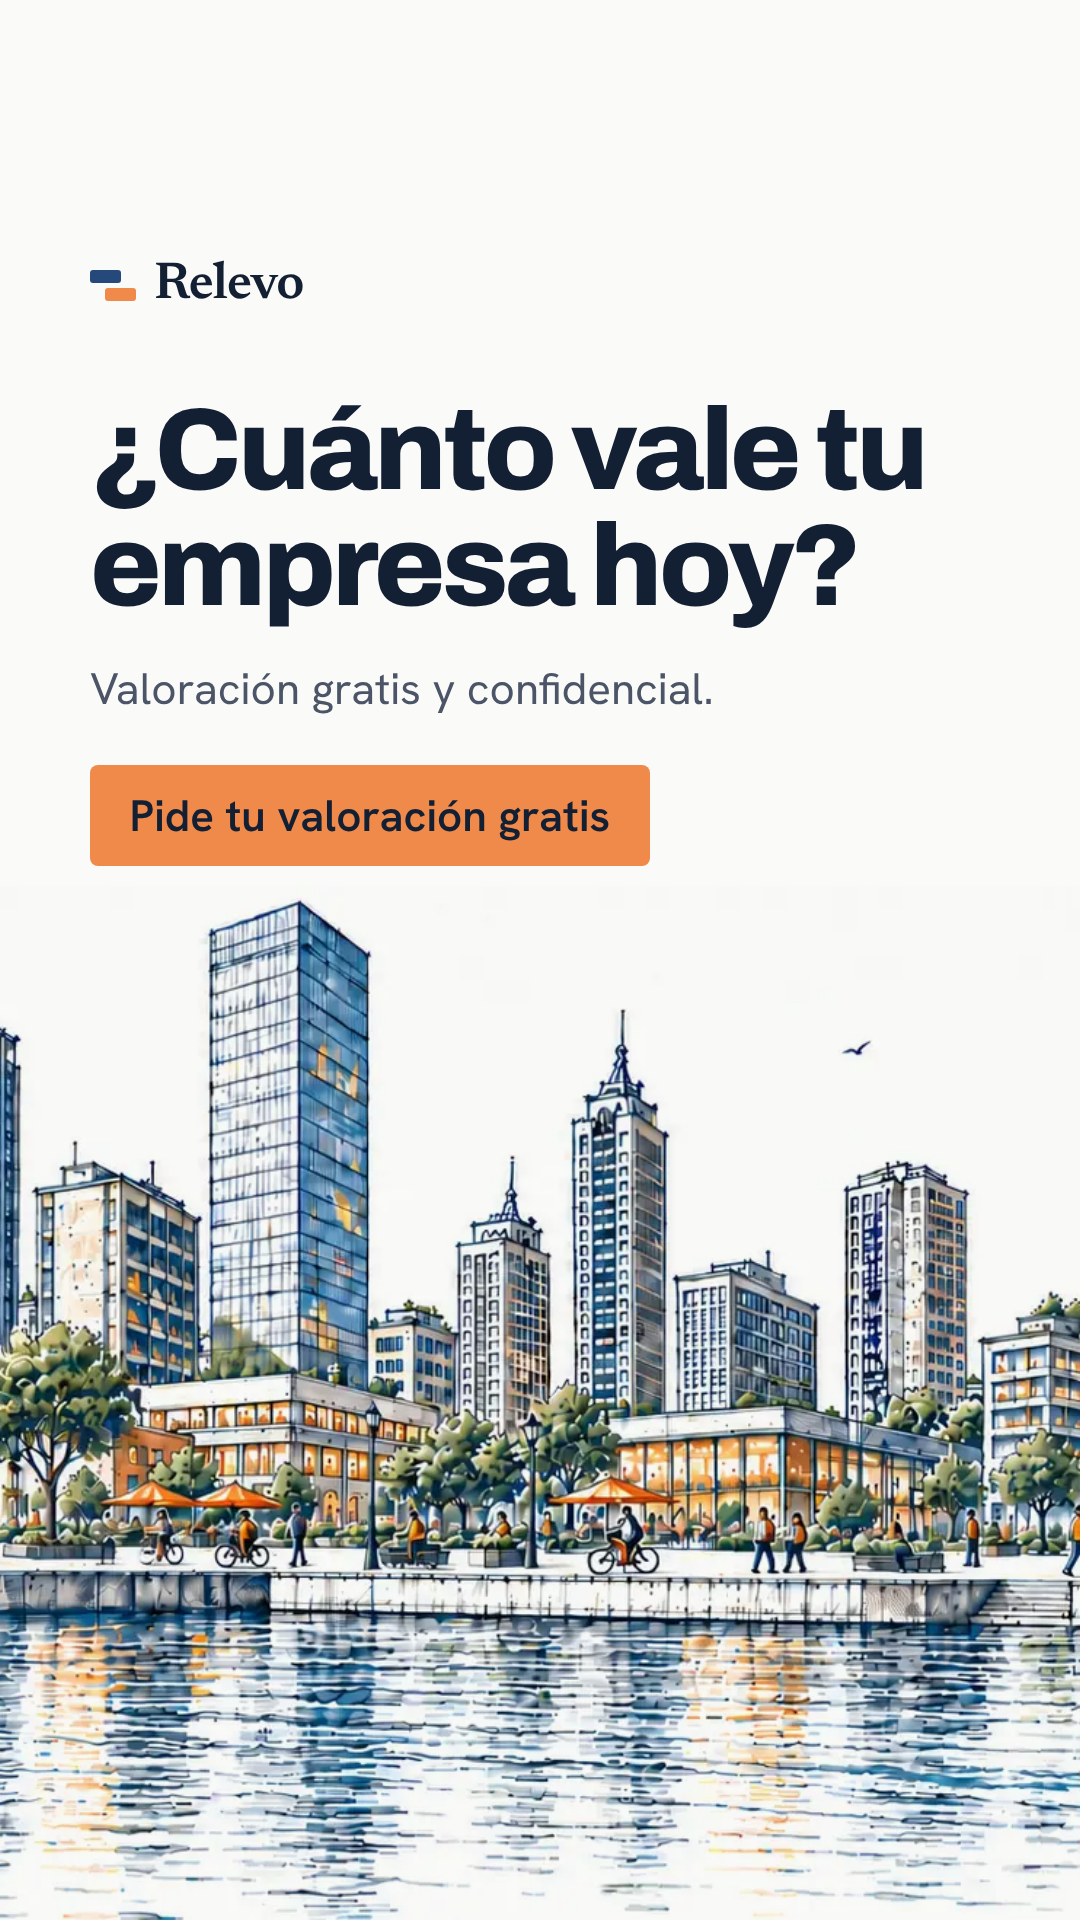
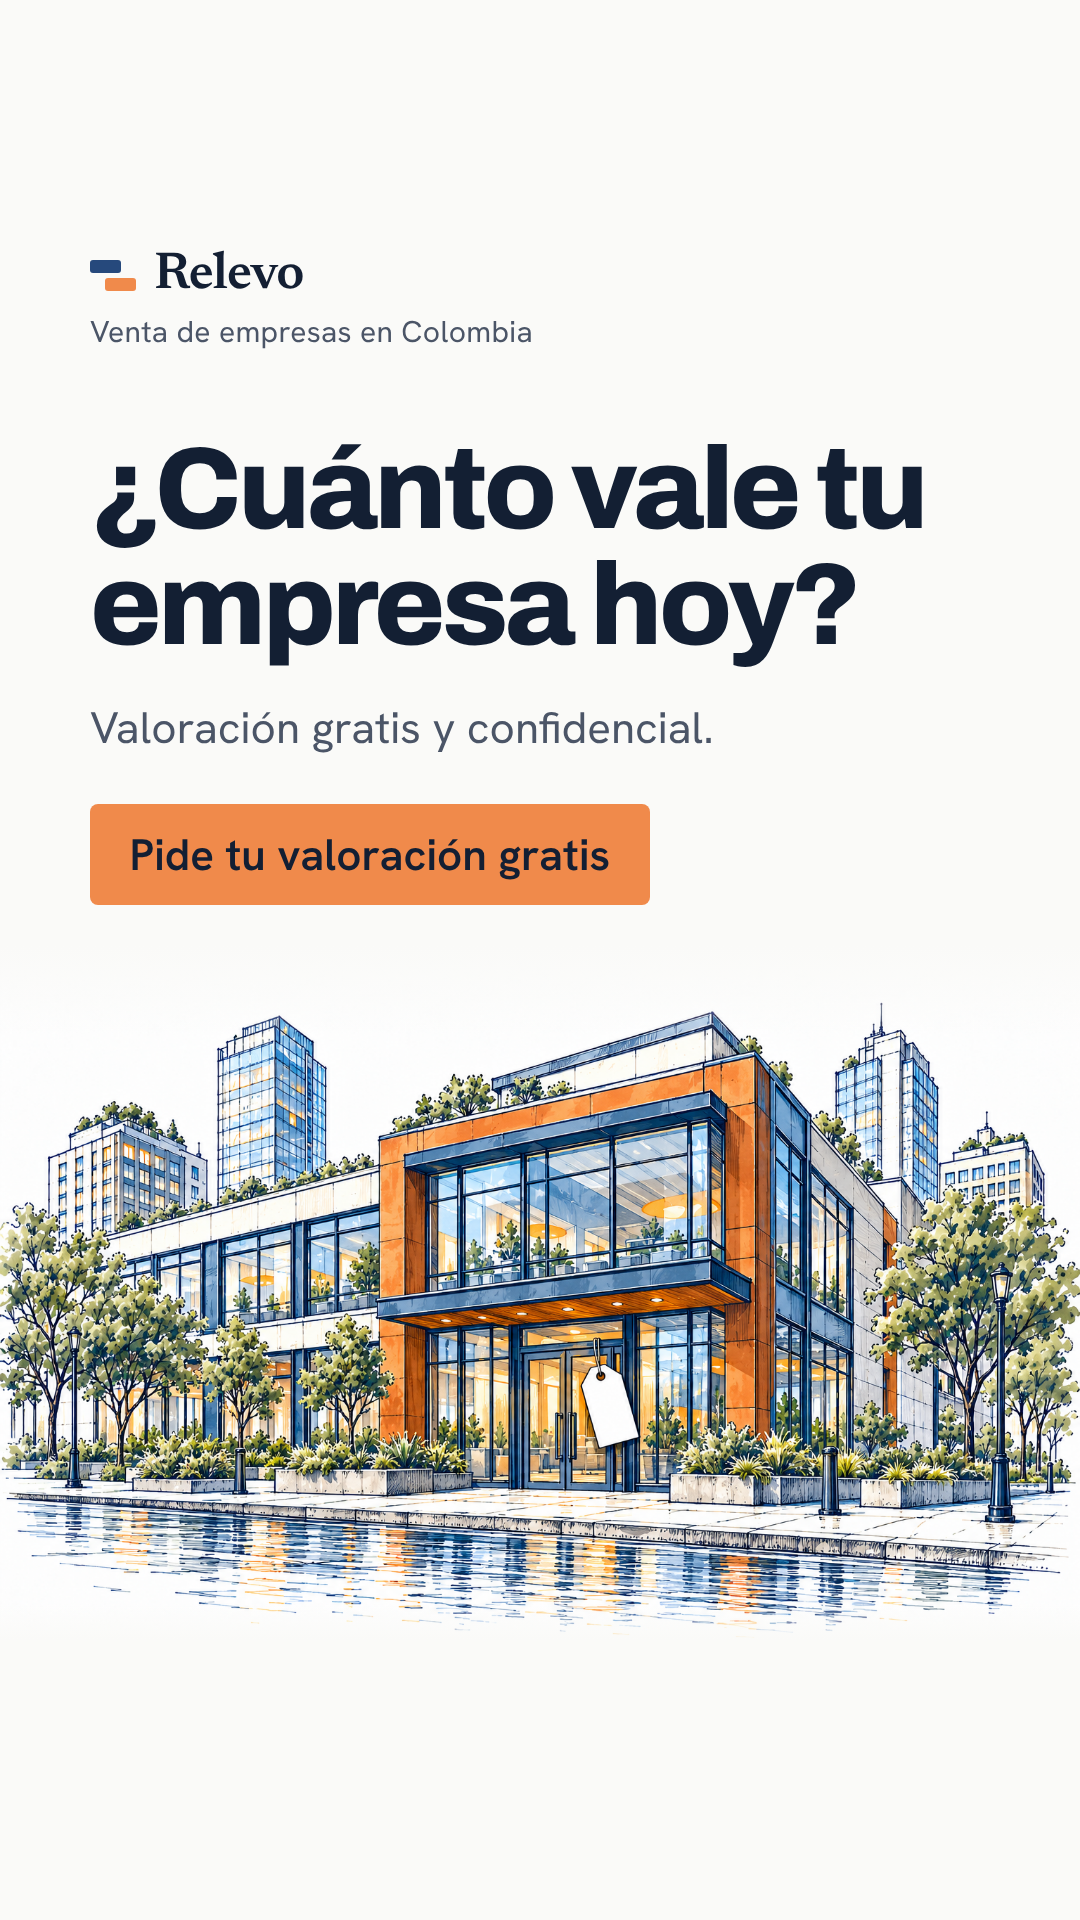
Anuncios con una ilustración por ángulo y la línea Venta de empresas en Colombia
Claude-Session: https://claude.ai/code/session_01UKzkXD513MFjRYJyNBkr2h

diff --git a/ads/render.py b/ads/render.py
@@ -1,11 +1,11 @@
 import asyncio, os
 from playwright.async_api import async_playwright
-D=os.getcwd(); F=D+'/node_modules/@fontsource'
+D=os.path.dirname(os.path.abspath(__file__)); F='/tmp/claude-0/-home-claude-relevo/dcc7213f-464d-5e4c-96db-b3ddb00c7dc9/scratchpad/node_modules/@fontsource'
 ADS=[
- ('a_valoracion','¿Cuánto vale tu empresa hoy?','Valoración gratis y confidencial.'),
- ('d_oferta','¿Te hicieron una oferta por tu empresa?','Antes de responder, conoce el precio justo.'),
- ('b_reserva','Vende tu empresa con reserva.','Tu nombre no aparece. Solo compradores verificados.'),
- ('c_relevo','¿Tus hijos no van a seguir con la empresa?','Sin pagos por adelantado. Cobramos solo si se vende.'),
+ ('a_valoracion','¿Cuánto vale tu empresa hoy?','Valoración gratis y confidencial.','50% 60%'),
+ ('d_oferta','¿Te hicieron una oferta por tu empresa?','Antes de responder, conoce el precio justo.','55% 60%'),
+ ('b_reserva','Vende tu empresa con reserva.','Tu nombre no aparece. Solo compradores verificados.','45% 65%'),
+ ('c_relevo','¿Tus hijos no van a seguir con la empresa?','Sin pagos por adelantado. Cobramos solo si se vende.','50% 70%'),
 ]
 CSS=f'''@font-face{{font-family:Archivo;src:url(file://{F}-variable/archivo/files/archivo-latin-wght-normal.woff2);font-weight:100 900}}
 @font-face{{font-family:Hanken;src:url(file://{F}/hanken-grotesk/files/hanken-grotesk-latin-400-normal.woff2);font-weight:400}}
@@ -19,29 +19,29 @@ body{{width:var(--w);height:var(--h);background:#fafaf8;color:#131f33;overflow:h
 h1{{font:800 var(--hs)/1.0 Archivo;letter-spacing:-.035em;text-wrap:balance}}
 p{{font:400 var(--ps)/1.3 Hanken;color:#4b5567;text-wrap:balance}}
 .pill{{display:inline-block;background:#f08a4b;color:#131f33;font:600 var(--ps) Hanken;padding:.5em .9em;border-radius:8px}}
-body{{display:flex;flex-direction:column}}.txt{{position:relative;z-index:1}}.cbox{{flex:1;min-height:0;overflow:hidden;position:relative}}.cbox img{{position:absolute;left:50%;transform:translateX(-50%);height:100%;width:auto;min-width:100%;object-fit:cover;mix-blend-mode:multiply}}
+body{{display:flex;flex-direction:column}}.txt{{position:relative;z-index:1}}.cbox{{flex:1;min-height:0;overflow:hidden;position:relative}}.cbox img{{position:absolute;inset:0;width:100%;height:100%;object-fit:cover}}.cbox:after{{content:'';position:absolute;left:0;right:0;top:0;height:90px;background:linear-gradient(#fafaf8,rgba(250,250,248,0))}}body.st .cbox{{margin-bottom:280px}}body.st .cbox:before{{content:'';position:absolute;z-index:1;left:0;right:0;bottom:0;height:36px;background:linear-gradient(rgba(250,250,248,0),#fafaf8)}}.tag{{font:400 30px Hanken;color:#4b5567;margin-top:10px;letter-spacing:.01em}}
 '''
-def html(w,h,head,sub):
+def html(w,h,head,sub,key,pos):
   if h==w:
-    body=f'''<div class="txt" style="padding:72px 84px 8px">
-      <div class="brand"><span class="mark"><i></i><i></i></span>Relevo</div>
-      <h1 style="margin-top:48px">{head}</h1><p style="margin-top:24px">{sub}</p></div>
-      <div class="cbox"><img src="city.webp"></div>'''
-    v='--hs:88px;--ps:38px'
+    body=f'''<div class="txt" style="padding:64px 84px 36px">
+      <div class="brand"><span class="mark"><i></i><i></i></span>Relevo</div><div class="tag">Venta de empresas en Colombia</div>
+      <h1 style="margin-top:40px">{head}</h1><p style="margin-top:24px">{sub}</p></div>
+      <div class="cbox"><img src="src/{key}.png" style="object-position:{pos}"></div>'''
+    v='--hs:80px;--ps:36px'
   else:
-    body=f'''<div class="txt" style="padding:260px 90px 20px">
-      <div class="brand"><span class="mark"><i></i><i></i></span>Relevo</div>
+    body=f'''<div class="txt" style="padding:250px 90px 40px">
+      <div class="brand"><span class="mark"><i></i><i></i></span>Relevo</div><div class="tag">Venta de empresas en Colombia</div>
       <h1 style="margin-top:80px">{head}</h1><p style="margin-top:36px">{sub}</p>
       <div style="margin-top:48px"><span class="pill">Pide tu valoración gratis</span></div></div>
-      <div class="cbox"><img src="city.webp"></div>'''
+      <div class="cbox"><img src="src/{key}.png" style="object-position:{pos}"></div>'''
     v='--hs:116px;--ps:44px'
-  return f'<!doctype html><html><head><meta charset="utf-8"><style>{CSS}</style></head><body style="--w:{w}px;--h:{h}px;{v}">{body}</body></html>'
+  return f'<!doctype html><html><head><meta charset="utf-8"><style>{CSS}</style></head><body class="{'st' if h>w else ''}" style="--w:{w}px;--h:{h}px;{v}">{body}</body></html>'
 async def main():
   async with async_playwright() as p:
     b=await p.chromium.launch()
-    for key,head,sub in ADS:
+    for key,head,sub,pos in ADS:
       for w,h,tag in [(1080,1080,'feed'),(1080,1920,'historia')]:
-        open('ad.html','w').write(html(w,h,head,sub))
+        open('ad.html','w').write(html(w,h,head,sub,key,pos))
         pg=await b.new_page(viewport={'width':w,'height':h})
         await pg.goto('file://'+D+'/ad.html'); await pg.evaluate('document.fonts.ready'); await pg.wait_for_timeout(300)
         await pg.screenshot(path=f'/home/claude/relevo/ads/{key}_{tag}.png'); await pg.close()
